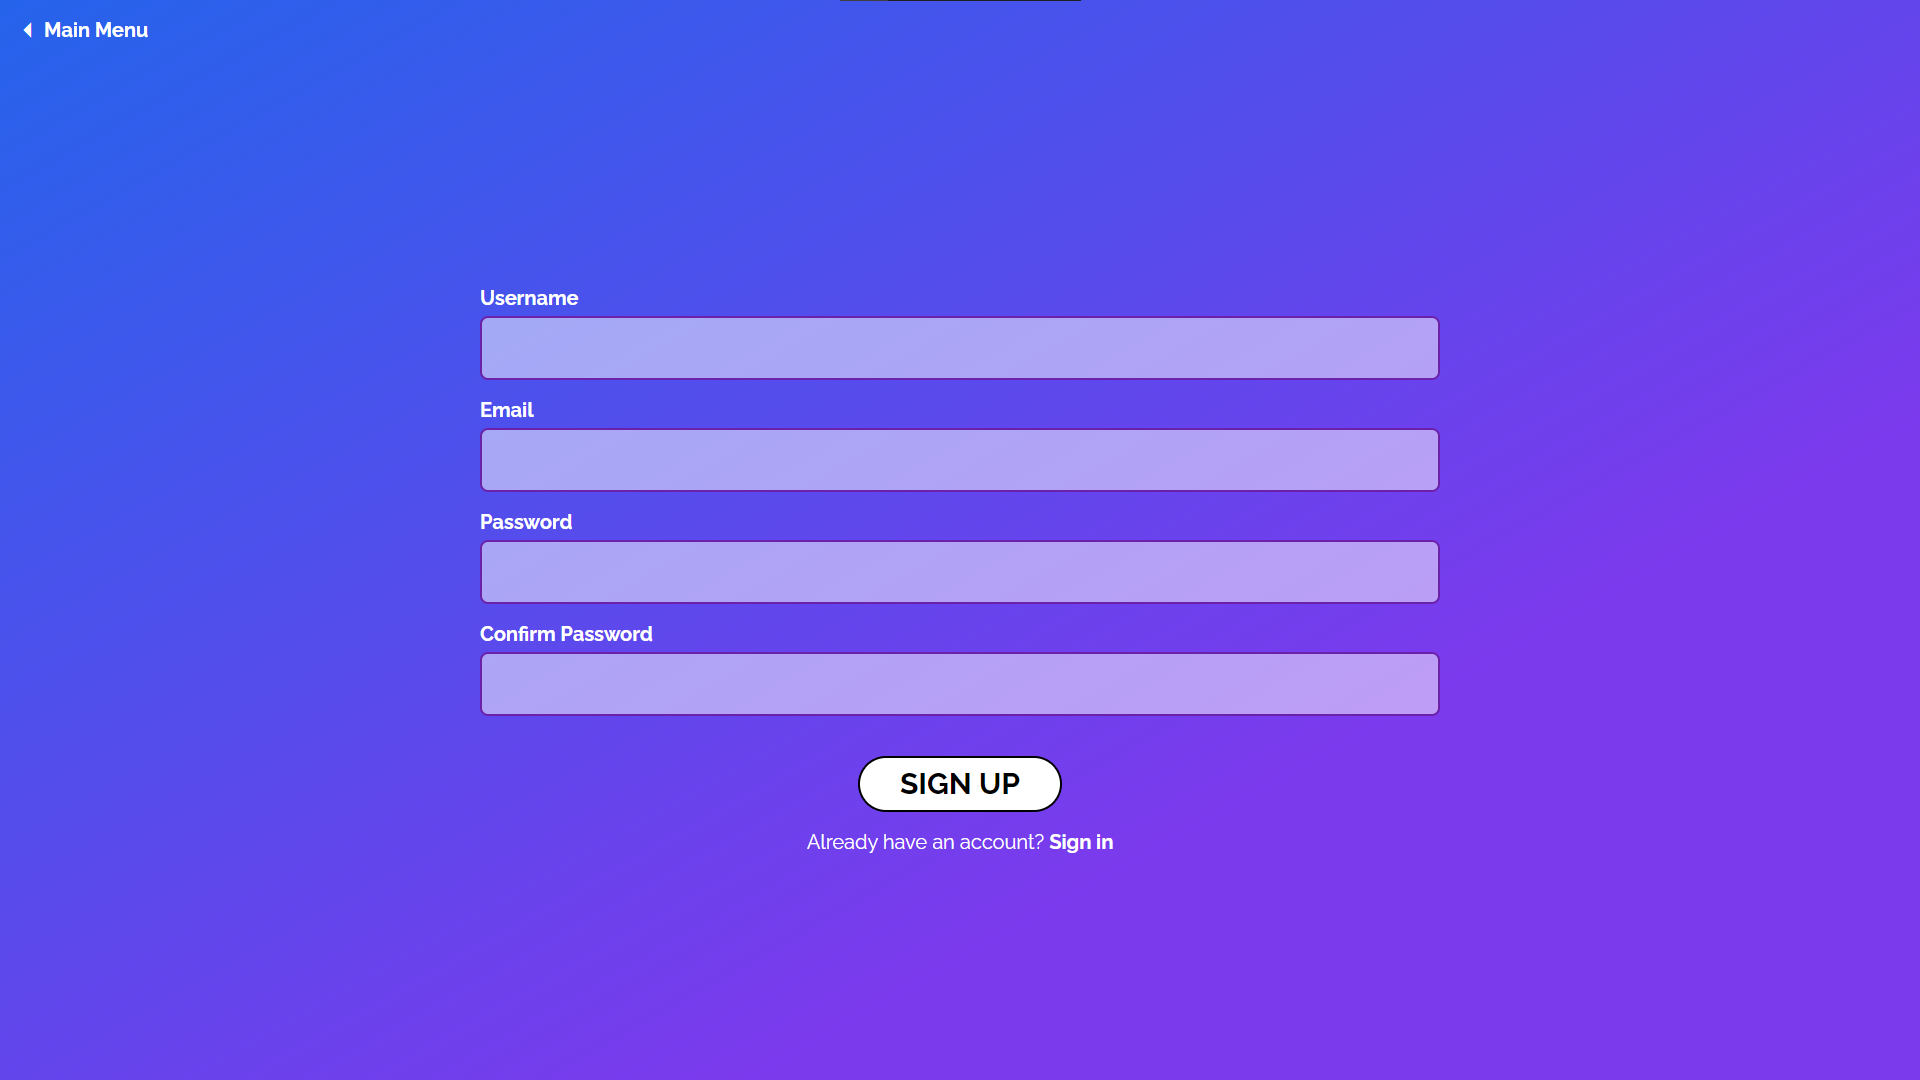
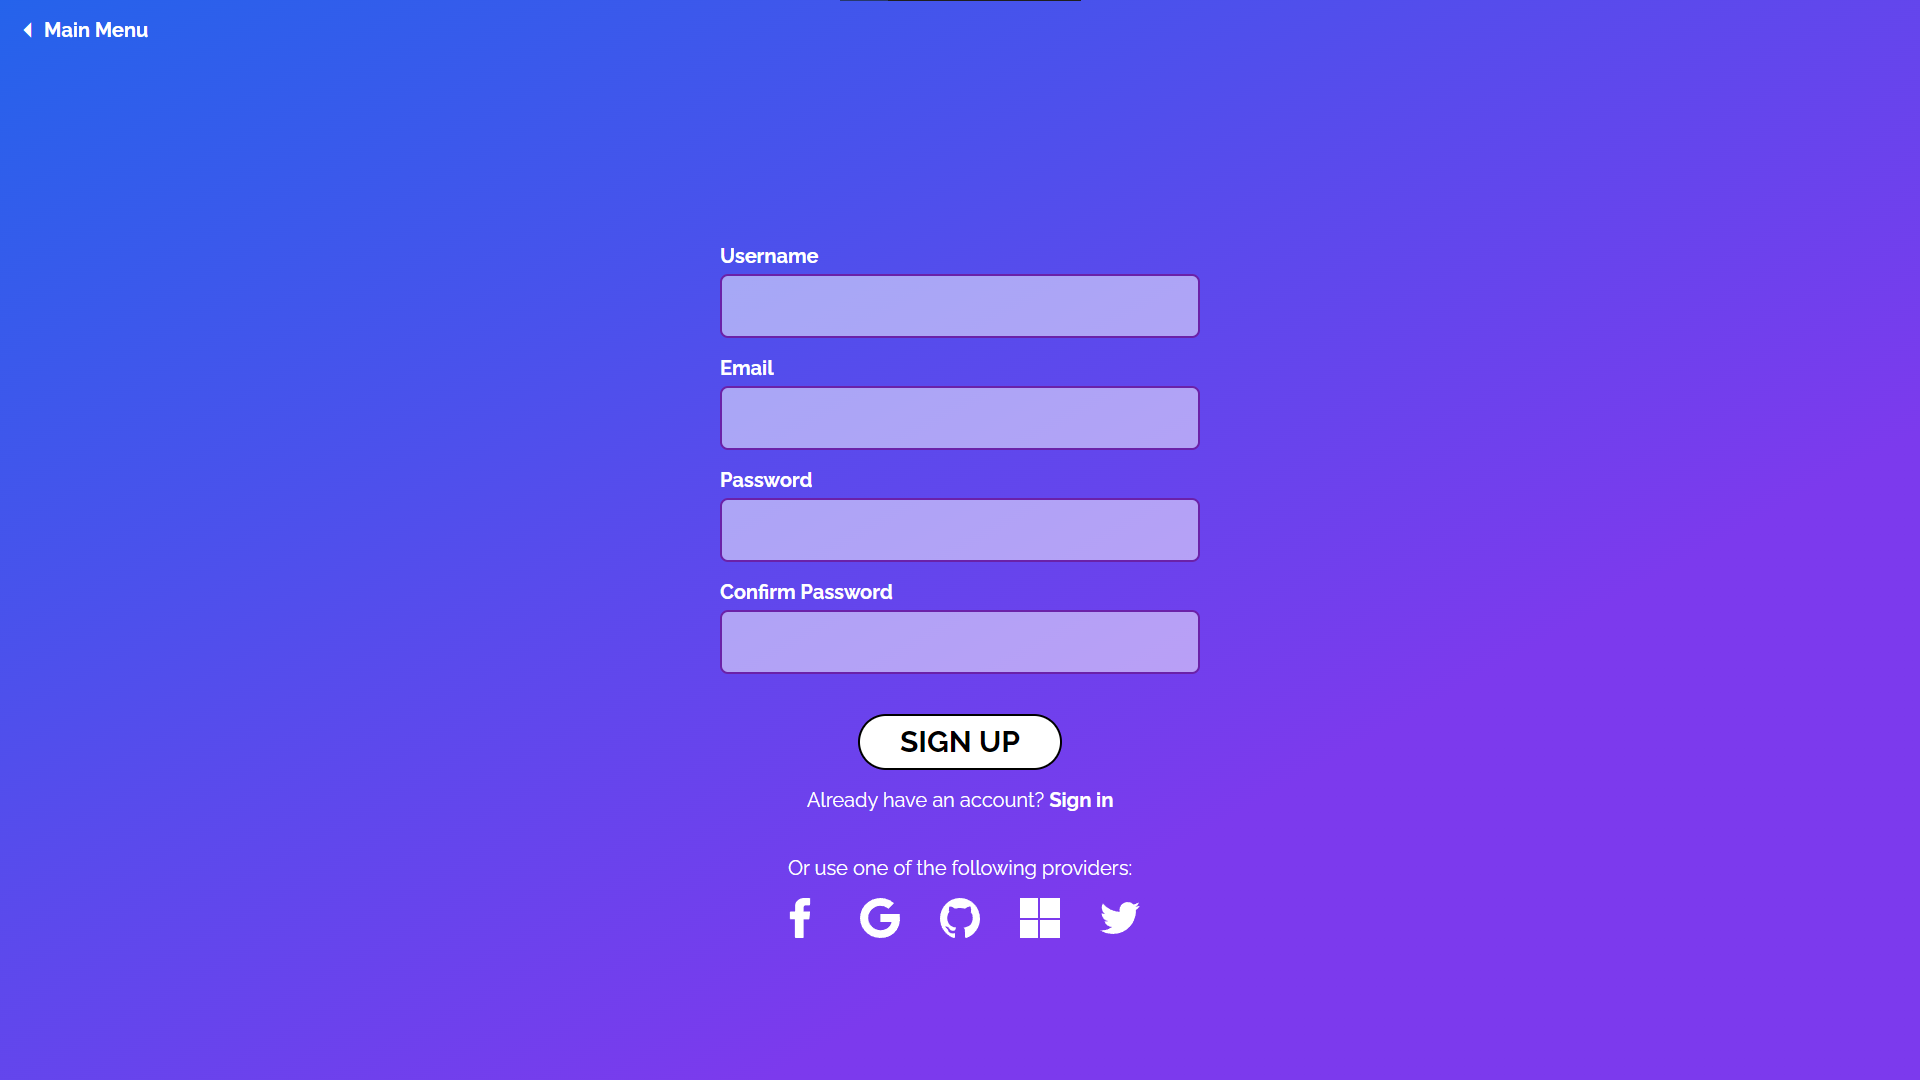
Update README

Changed region(s): [[0.25, 0.2139, 0.75, 0.8861]]

diff --git a/README.md b/README.md
@@ -3,6 +3,7 @@
 Application where user can create his own Quizzes play them and track scores in leaderboard.</p>
 
 ## 📸 Screenshots
+
 <div>
 <h3>Desktop</h3>
 <img src="./screenshots/main-menu-desktop.png" width="500" />
@@ -18,79 +19,109 @@ Application where user can create his own Quizzes play them and track scores in 
 <img src="./screenshots/register-mobile.png" width="200" />
 </div>
 
-
 ## 🧐 Features
 
 Here're some of the project's best features:
 
-*   Creating Quizzes (choosing name selecting number of questions)
-*   Playing Quizzes (with username input quiz and difficulty level selection)
-*   Animated timer based on selected difficulty
-*   Saving records in leaderboards
-*   Ability to delete Quiz or Game(s)
-*   User-Friendly error and loading handling
-*   Authentication and Authorization
-*   Authenticated users can delete and create Quizzes/Games
+- Creating Quizzes (choosing name selecting number of questions)
+- Playing Quizzes (with username input quiz and difficulty level selection)
+- Animated timer based on selected difficulty
+- Saving records in leaderboards
+- Ability to delete Quiz or Game(s)
+- User-Friendly error and loading handling
+- Authentication and Authorization
+- Authenticated users can delete and create Quizzes/Games
+- External Providers Auth (Facebook, Google, Github, Microsoft, Twitter)
 
 ## 🛠 Installation Steps:
 
 1. Go to **appsettings.json** and replace **ConnectionString:Default** with your connection string.
 
-``` appsettings.json
-"ConnectionStrings": { 
-"Default": "your_connection_string" 
+```appsettings.json
+"ConnectionStrings": {
+"Default": "your_connection_string"
 }
 ```
 
 2. In **Program.cs** change DbContext options to your Database Provider
 
-
-``` Program.cs 
-builder.Services.AddDbContext(options => 
-{ 
-options.YOUR_DATABASE(builder.Configuration.GetConnectionString("Default")); 
+```Program.cs
+builder.Services.AddDbContext(options =>
+{
+options.YOUR_DATABASE(builder.Configuration.GetConnectionString("Default"));
 });
 ```
 
 3. Open **NuGet Package Manager Console** and run:
 
-```
+```Package-Manager Console
 Add-Migration Initial
 Update-Database
 ```
 
 4. In UI folder go to **config** folder and change url:
 
-``` config.ts
+```config.ts
 export const url = 'https://localhost:{your_port}/api/';
 ```
 
 5. In UI folder run:
 
-```
+```powershell
 npm install
+```
+
+6. For external authentication you must configure applications in developer's portal and configure secrets below (or contact me if you want ready to go secrets)
+
+```appsettings.json
+"Authentication": {
+    "Google": {
+      "ClientId": "secret",
+      "ClientSecret": "secret"
+    },
+    "Facebook": {
+      "AppId": "secret",
+      "AppSecret": "secret"
+    },
+    "Microsoft": {
+      "ClientId": "secret",
+      "ClientSecret": "secret"
+    },
+    "Github": {
+      "ClientId": "secret",
+      "ClientSecret": "secret"
+    },
+    "Twitter": {
+      "ClientId": "secret",
+      "ClientSecret": "secret"
+    }
+  },
 ```
 
 ## 💻 Built with
 
-*   Angular
-*   TypeScript
-*   ASP.NET Core
-*   Entity Framwork Core
-*   PostgreSQL
-*   Angular Material
-*   TailwindCSS
-*   ASP.NET Identity
-*   Logger
+- Angular
+- TypeScript
+- ASP.NET Core
+- Entity Framwork Core
+- PostgreSQL
+- Angular Material
+- TailwindCSS
+- ASP.NET Identity
+- Logger
+- OAuth 2.0
 
 ## 🧠 What I've learned
 
-* Children Routing to organize layout for component groups
-* Solid grasp on RxJS Observable Pattern concept
-* Keeping possible losable progress using localStorage (Quiz Creator Stepper, Quiz Session Creator)
-* Mapping through related tables using Entity Framework
-* Server-Side Pagination
-* Handling loading state and potential errors
-* Handling Authentication and Authorization using ASP.NET Core Identity
-* Logging errors in Database using ILogger
-* Storing token in cookies on Authentication
+- Children Routing to organize layout for component groups
+- Solid grasp on RxJS Observable Pattern concept
+- Keeping possible losable progress using localStorage (Quiz Creator Stepper, Quiz Session Creator)
+- Mapping through related tables using Entity Framework
+- Server-Side Pagination
+- Handling loading state and potential errors
+- Handling Authentication and Authorization using ASP.NET Core Identity
+- Logging errors in Database using ILogger
+- Storing token in cookies on Authentication
+- Configuring OAuth 2.0 Auth-Flow for External providers
+- Using PKCE for authorization
+- Configuring Apps in dedicated developer portals (Azure, Meta, Google Identity, etc.)
